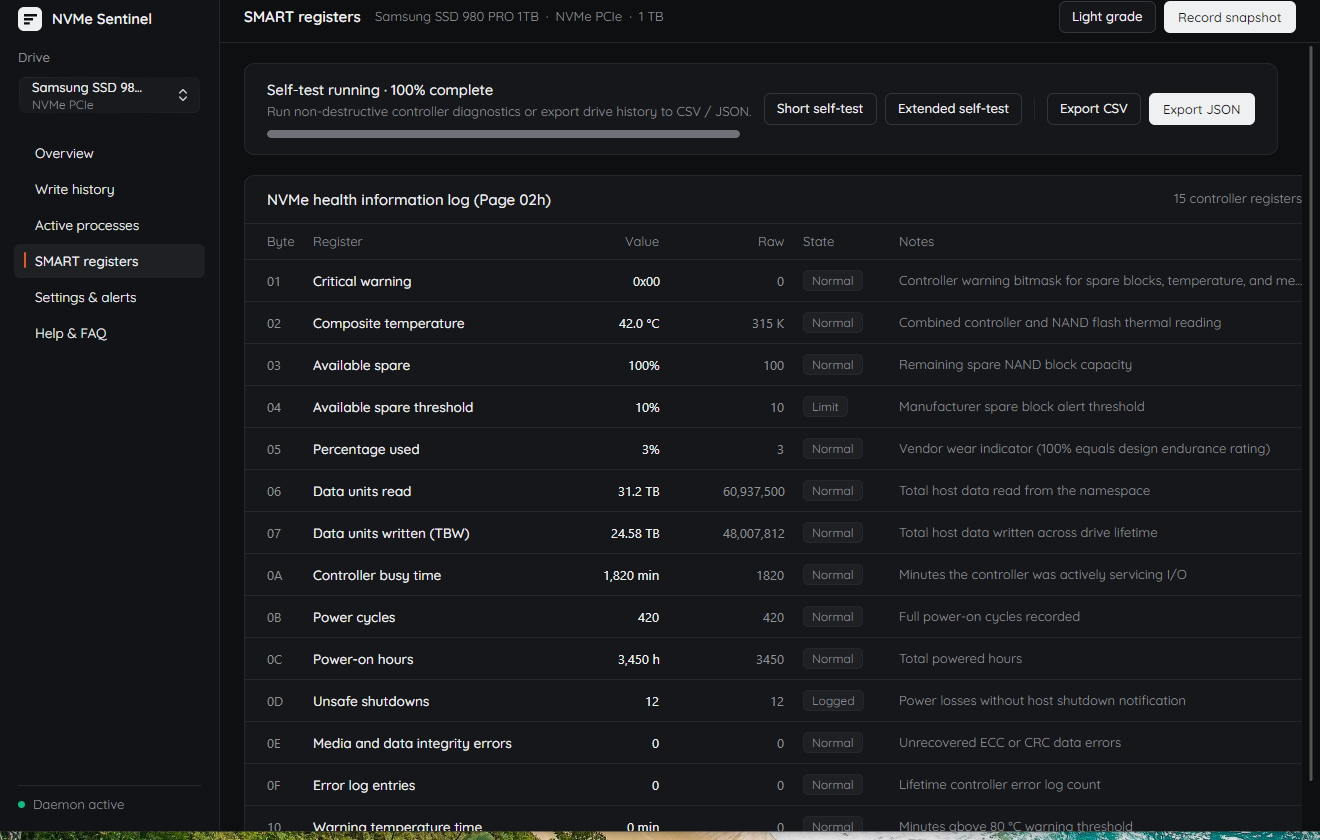
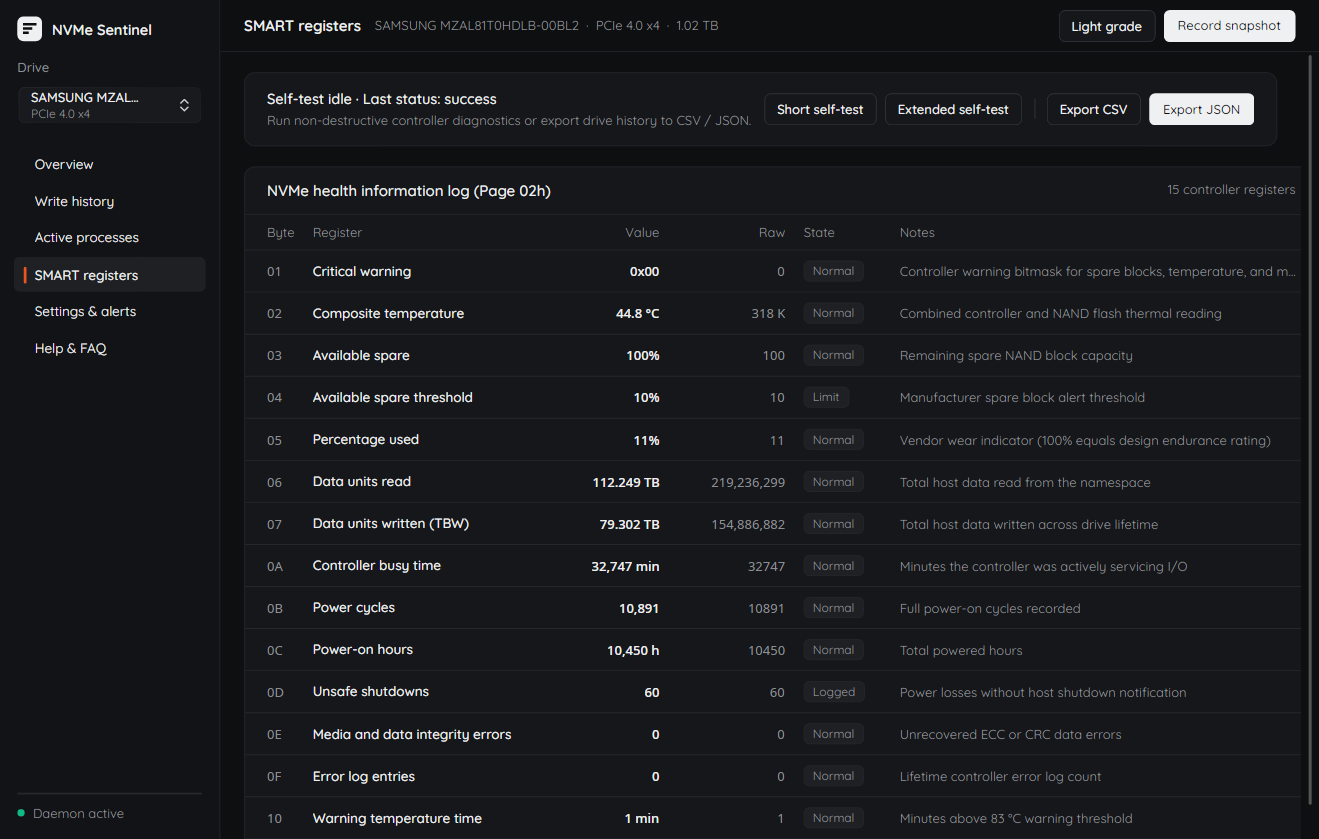
docs,ui: refresh screenshots with real hardware data and remove redundant feature bullets

diff --git a/tests/NvmeSentinel.Tests/SentinelCoreTests.cs b/tests/NvmeSentinel.Tests/SentinelCoreTests.cs
@@ -525,65 +525,4 @@ public sealed class SentinelCoreTests
         Assert.Equal(1_200_000_000_000_000L, tlcBytes); // 600 TB/TB * 2TB = 1200 TB
         Assert.Contains("TLC", tlcSource);
     }
-
-    [Fact]
-    public void TimeSeriesStore_LoadDevicesAndBuildDashboardSnapshot()
-    {
-        var tempDir = Path.Combine(Path.GetTempPath(), $"nvme-sentinel-mock-{Guid.NewGuid():N}");
-        Directory.CreateDirectory(tempDir);
-        var dbPath = Path.Combine(tempDir, "history.db");
-
-        try
-        {
-            using var store = new TimeSeriesStore(dbPath);
-            var dev = new NvmeDeviceInfo
-            {
-                DeviceId = "nvme0n1",
-                Model = "Samsung SSD 980 PRO 1TB",
-                SerialNumber = "S5GXNF0R102488",
-                FirmwareRevision = "5B2QGXA7",
-                CapacityBytes = 1_000_204_886_016L
-            };
-            store.UpsertDevices([dev]);
-
-            var snap = new SmartSnapshot
-            {
-                DeviceId = dev.DeviceId,
-                TimestampUtc = DateTimeOffset.UtcNow,
-                TotalBytesWritten = 24_580_000_000_000L,
-                TotalBytesRead = 31_200_000_000_000L,
-                PercentUsed = 3,
-                AvailableSpare = 100,
-                SpareThreshold = 10,
-                CompositeTempCelsius = 42.0,
-                PowerOnHours = 3450
-            };
-            store.FlushBucketsAndState(new List<BufferedBucket>(), new Dictionary<string, SmartSnapshot> { [dev.DeviceId] = snap }, new List<AlertEvent>());
-
-            var devices = store.LoadDevices();
-            Assert.NotEmpty(devices);
-            Assert.Equal("nvme0n1", devices[0].DeviceId);
-
-            var smart = store.LoadLatestSmartSnapshots();
-            Assert.True(smart.ContainsKey(dev.DeviceId));
-
-            var settings = new DaemonSettings();
-            var forecast = LifespanAnalyzer.Compute(dev, smart[dev.DeviceId], settings, store);
-            Assert.NotNull(forecast);
-
-            var dash = new DashboardSnapshot
-            {
-                Devices = devices,
-                LatestSmart = smart,
-                Forecasts = new Dictionary<string, LifespanForecast> { [dev.DeviceId] = forecast },
-                Settings = settings
-            };
-            var json = System.Text.Json.JsonSerializer.Serialize(dash);
-            Assert.NotEmpty(json);
-        }
-        finally
-        {
-            try { Directory.Delete(tempDir, recursive: true); } catch { }
-        }
-    }
 }

diff --git a/src/NvmeSentinel.Core/Services/LifespanAnalyzer.cs b/src/NvmeSentinel.Core/Services/LifespanAnalyzer.cs
@@ -47,17 +47,11 @@ public static class LifespanAnalyzer
         const double OneGigabyte = 1_000_000_000.0;
         const double MaxPracticalHorizonDays = 3652.5; // Cap practical silicon exhaustion projection at 10.0 years
 
-        // Safety threshold: NAND flash enters a high-risk degradation zone (cell leakage, ECC recovery fatigue,
-        // spare block exhaustion) well before reaching absolute 0% endurance. We project lifespan to the
-        // critical safety threshold (10% endurance remaining / 90% rated TBW consumed) rather than catastrophic failure.
-        long dangerThresholdBytes = (long)(ratedBytes * 0.90);
-        long remainingToDanger = Math.Max(0, dangerThresholdBytes - currentTbw);
-
         // If daily burn rate is negligible (< 1 GB/day), endurance wear is not the limiting failure factor;
         // physical component aging, capacitor degradation, and dielectric charge leakage (JEDEC JESD218) dominate.
-        if (effectiveRate >= OneGigabyte && remainingToDanger > 0)
+        if (effectiveRate >= OneGigabyte && remaining > 0)
         {
-            double days = remainingToDanger / effectiveRate;
+            double days = remaining / effectiveRate;
             if (days <= MaxPracticalHorizonDays)
             {
                 estDays = Math.Round(days, 1);
@@ -69,7 +63,7 @@ public static class LifespanAnalyzer
                 estDays = MaxPracticalHorizonDays;
             }
         }
-        else if (remainingToDanger == 0 && ratedBytes > 0)
+        else if (remaining == 0 && ratedBytes > 0)
         {
             estDays = 0;
             exhaustionDate = now;

diff --git a/src/NvmeSentinel.Core/Storage/TimeSeriesStore.cs b/src/NvmeSentinel.Core/Storage/TimeSeriesStore.cs
@@ -229,40 +229,6 @@ public sealed class TimeSeriesStore : IDisposable
         }
     }
 
-    public List<NvmeDeviceInfo> LoadDevices()
-    {
-        lock (_sync)
-        {
-            using var conn = OpenConnection();
-            using var cmd = conn.CreateCommand();
-            cmd.CommandText = "SELECT device_id, model, serial, firmware, capacity_bytes FROM devices;";
-            using var reader = cmd.ExecuteReader();
-            var list = new List<NvmeDeviceInfo>();
-            while (reader.Read())
-            {
-                var id = reader.GetString(0);
-                var model = reader.GetString(1);
-                var serial = reader.GetString(2);
-                var fw = reader.GetString(3);
-                var cap = reader.GetInt64(4);
-                list.Add(new NvmeDeviceInfo
-                {
-                    DeviceId = id,
-                    ControllerName = id,
-                    BlockDeviceName = id,
-                    DevicePath = id,
-                    Model = model,
-                    SerialNumber = serial,
-                    FirmwareRevision = fw,
-                    CapacityBytes = cap,
-                    PowerState = "Active",
-                    BackendSource = "Database Store"
-                });
-            }
-            return list;
-        }
-    }
-
     public void UpsertDevices(IEnumerable<NvmeDeviceInfo> devices)
     {
         lock (_sync)

diff --git a/src/NvmeSentinel.Daemon/SentinelMonitorEngine.cs b/src/NvmeSentinel.Daemon/SentinelMonitorEngine.cs
@@ -60,18 +60,7 @@ public sealed class SentinelMonitorEngine : IAsyncDisposable
 
         var persistedSmart = _store.LoadLatestSmartSnapshots();
         _devices = await _nvmeProvider.DiscoverDevicesAsync(ct);
-        if (_devices.Count == 0)
-        {
-            var stored = _store.LoadDevices();
-            if (stored.Count > 0)
-            {
-                _devices = stored;
-            }
-        }
-        else
-        {
-            _store.UpsertDevices(_devices);
-        }
+        _store.UpsertDevices(_devices);
 
         // Prime process tracker baseline
         _processTracker.Poll(1.0, 0);
@@ -79,15 +68,10 @@ public sealed class SentinelMonitorEngine : IAsyncDisposable
         foreach (var dev in _devices)
         {
             var snap = await _nvmeProvider.ReadSmartAsync(dev, forceRefresh: true, ct);
-            if (snap is null && persistedSmart.TryGetValue(dev.DeviceId, out var cachedSnap))
-            {
-                snap = cachedSnap;
-            }
-
             if (snap is not null)
             {
                 snap.TriggerReason = "startup";
-                if (persistedSmart.TryGetValue(dev.DeviceId, out var prev) && !ReferenceEquals(prev, snap))
+                if (persistedSmart.TryGetValue(dev.DeviceId, out var prev))
                 {
                     EvaluateSmartTransitions(dev, prev, snap);
                 }

diff --git a/README.md b/README.md
@@ -48,7 +48,6 @@ Runs on **Linux**, **Windows**, and **macOS**.
 - **Endurance & lifespan projections**: Tracks daily write burn rates against factory endurance ratings (TBW) to estimate remaining drive lifespan.
 - **Configurable alert profiles**: Choose an alert profile matching your workload (Office, Gaming, Workstation, or DWPD-calculated) with sustained spike detection to filter out one-off large file downloads.
 - **Live hardware diagnostics**: Real-time read/write throughput, IOPS, PCIe generation/width verification, controller self-tests (Short and Extended), and multi-sensor thermals.
-- **Desktop status bar & CLI export**: Integration for Waybar/Polybar via `--waybar`, plus terminal telemetry exports to CSV or JSON.
 - **In-app documentation**: Built-in Help & FAQ tab answering common questions about write amplification, OEM reboot power cuts, and wear leveling.
 
 ---
